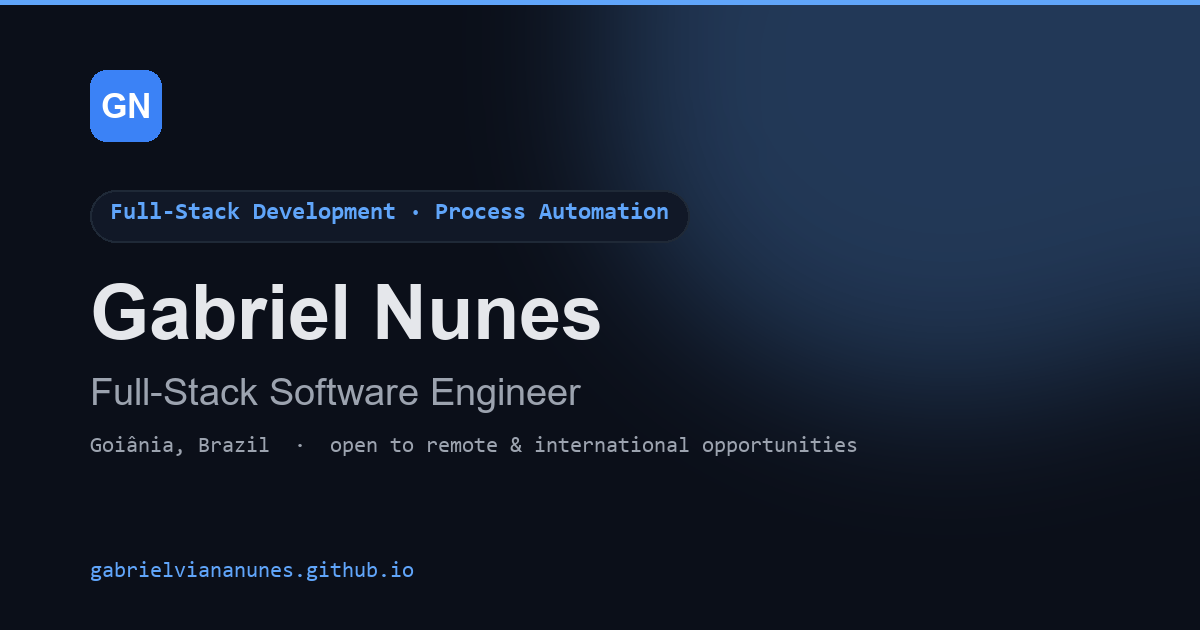
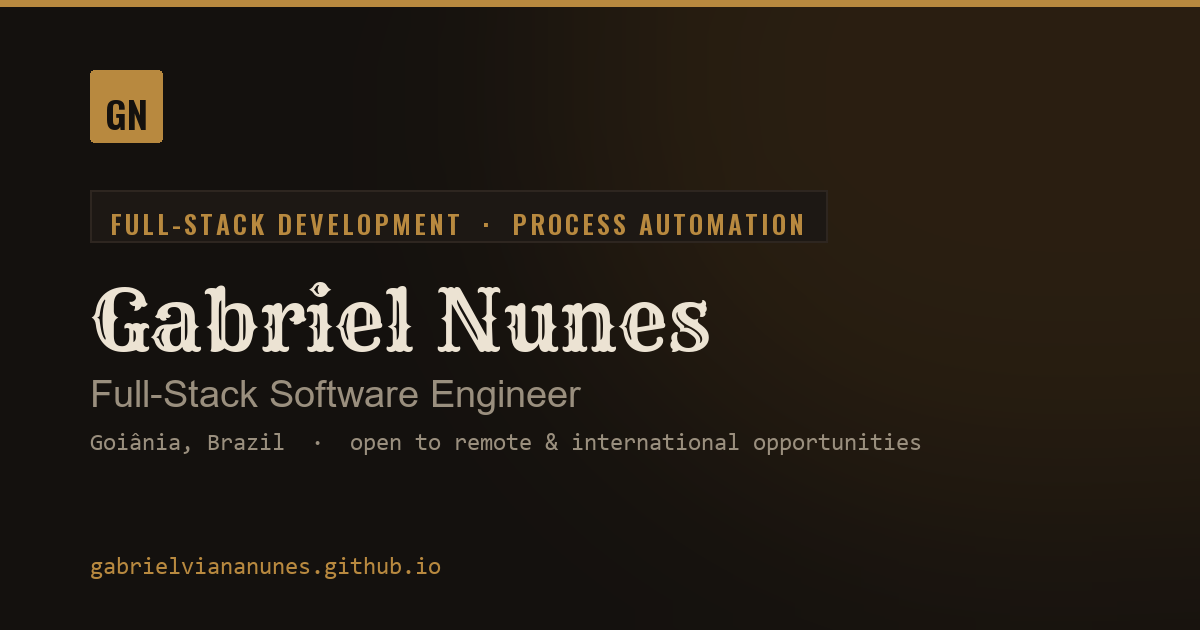
Redesign western moderno: paleta Ranch Noir, tipografia Rye/Oswald e novos assets

diff --git a/assets/css/styles.css b/assets/css/styles.css
@@ -16,26 +16,37 @@ body {
 }
 
 :root {
-    --bg: #ffffff;
-    --text: #111827;
-    --muted: #6b7280;
-    --surface: #f3f4f6;
-    --border: #e5e7eb;
-    --primary: #3b82f6;
-    --ring: #93c5fd;
+    --bg: #f4efe6;
+    --text: #1d1814;
+    --muted: #6e5e4f;
+    --surface: #ebe3d4;
+    --border: #d8ccb8;
+    --primary: #82581a;
+    --ring: #c9a566;
+    --rust: #8c4a2b;
     --accent: var(--primary);
+    --font-display: "Rye", Georgia, "Times New Roman", serif;
+    --font-label: "Oswald", "Arial Narrow", Arial, sans-serif;
     --mono: "JetBrains Mono", ui-monospace, SFMono-Regular, Menlo, Consolas, monospace;
 }
 
 html[data-theme="dark"] {
-    --bg: #0b0f19;
-    --text: #e5e7eb;
-    --muted: #9ca3af;
-    --surface: #111827;
-    --border: #1f2937;
-    --primary: #60a5fa;
-    --ring: #1d4ed8;
+    --bg: #14110e;
+    --text: #ece3d3;
+    --muted: #9a8f7e;
+    --surface: #1d1814;
+    --border: #2e2620;
+    --primary: #b8893f;
+    --ring: #6b4f22;
+    --rust: #8c4a2b;
     --accent: var(--primary);
+}
+
+h1,
+h2 {
+    font-family: var(--font-display);
+    font-weight: 400;
+    letter-spacing: .01em;
 }
 
 a {
@@ -92,7 +103,7 @@ a:hover {
 
 .menu a {
     padding: .5rem .75rem;
-    border-radius: 10px;
+    border-radius: 3px;
 }
 
 .menu a:hover {
@@ -118,7 +129,7 @@ a:hover {
     width: 2.25rem;
     height: 2.25rem;
     border: 1px solid var(--border);
-    border-radius: .625rem;
+    border-radius: 3px;
     background: transparent;
     cursor: pointer;
 }
@@ -159,9 +170,9 @@ a:hover {
     left: 1rem;
     top: 1rem;
     background: var(--primary);
-    color: white;
+    color: var(--bg);
     padding: .5rem 1rem;
-    border-radius: .5rem;
+    border-radius: 3px;
 }
 
 /* ========== Hero ========== */
@@ -186,7 +197,7 @@ a:hover {
     display: inline-block;
     margin: 0 0 .75rem;
     padding: .3rem .7rem;
-    border-radius: 999px;
+    border-radius: 3px;
     border: 1px solid var(--border);
     background: var(--surface);
     font-family: var(--mono);
@@ -202,14 +213,19 @@ a:hover {
 
 .cta {
     display: flex;
+    flex-wrap: wrap;
     gap: 1rem;
     margin-top: 1rem;
 }
 
 .btn {
     display: inline-block;
-    padding: .7rem 1rem;
-    border-radius: .75rem;
+    padding: .7rem 1.25rem;
+    font-family: var(--font-label);
+    font-size: .9rem;
+    text-transform: uppercase;
+    letter-spacing: .1em;
+    border-radius: 4px;
     border: 1px solid var(--border);
     font-weight: 600;
     transition: transform .15s ease;
@@ -217,7 +233,7 @@ a:hover {
 
 .btn.primary {
     background: var(--primary);
-    color: white;
+    color: var(--bg);
     border-color: transparent;
 }
 
@@ -243,6 +259,38 @@ a:hover {
 }
 
 /* ========== Seções ========== */
+main {
+    counter-reset: sec;
+}
+
+.section .container > h2:first-child,
+.section .container > div > h2:first-child {
+    counter-increment: sec;
+}
+
+.section .container > h2:first-child::before,
+.section .container > div > h2:first-child::before {
+    content: counter(sec, decimal-leading-zero) " \00B7";
+    display: block;
+    margin-bottom: .35rem;
+    font-family: var(--font-label);
+    font-size: .8rem;
+    font-weight: 500;
+    letter-spacing: .18em;
+    color: var(--primary);
+}
+
+.menu a,
+.badge,
+.skills-cat,
+.case-label,
+.case-badge,
+.lang-toggle {
+    font-family: var(--font-label);
+    text-transform: uppercase;
+    letter-spacing: .1em;
+}
+
 .section {
     position: relative;
     padding: 3rem 0;
@@ -258,8 +306,9 @@ a:hover {
 .portrait img {
     width: 100%;
     height: auto;
-    border-radius: 1rem;
-    box-shadow: 0 10px 30px rgba(0, 0, 0, .15);
+    border-radius: 4px;
+    box-shadow: 0 10px 30px rgba(20, 12, 4, .28);
+    filter: sepia(.18) saturate(.9) contrast(1.03);
 }
 
 .highlights {
@@ -430,7 +479,7 @@ a:hover {
     margin-bottom: 2rem;
     padding: 1.5rem;
     border: 1px solid var(--border);
-    border-radius: 1rem;
+    border-radius: 4px;
     background: var(--surface);
     transition: transform .15s ease;
 }
@@ -443,7 +492,7 @@ a:hover {
     display: inline-block;
     margin-bottom: .75rem;
     padding: .25rem .6rem;
-    border-radius: 999px;
+    border-radius: 3px;
     background: var(--bg);
     border: 1px solid var(--border);
     color: var(--primary);
@@ -476,7 +525,7 @@ a:hover {
 .card {
     background: var(--surface);
     border: 1px solid var(--border);
-    border-radius: 1rem;
+    border-radius: 4px;
     padding: 1rem;
     transition: transform .15s ease;
 }
@@ -516,15 +565,9 @@ a:hover {
 .tags li {
     font-size: .825rem;
     padding: .25rem .5rem;
-    border-radius: 999px;
-    background: #fff;
+    border-radius: 3px;
+    background: var(--bg);
     border: 1px solid var(--border);
-}
-
-html[data-theme="dark"] .tags li {
-    background: #0b0f19;
-    border-color: #2a3344;
-    /* borda um pouco mais evidente */
 }
 
 /* ========== Contato / Rodapé ========== */
@@ -629,8 +672,8 @@ html[data-theme="dark"] .tags li {
     max-height: 60vw;
     border-radius: 50%;
     background: radial-gradient(circle, var(--primary) 0%, transparent 70%);
-    opacity: .12;
-    filter: blur(60px);
+    opacity: .08;
+    filter: blur(70px);
 }
 
 /* ----- Languages block ----- */
@@ -648,15 +691,14 @@ html[data-theme="dark"] .tags li {
     bottom: .2rem;
     width: .35rem;
     background: var(--ring);
-    border-radius: .35rem;
-    filter: drop-shadow(0 0 6px var(--ring));
+    border-radius: 3px;
 }
 
 .lang-container {
     position: relative;
     background: var(--surface);
     border: 1px solid var(--border);
-    border-radius: 1rem;
+    border-radius: 4px;
     padding: 1rem 1.25rem;
 }
 
@@ -668,8 +710,7 @@ html[data-theme="dark"] .tags li {
     bottom: .75rem;
     width: 4px;
     background: var(--accent);
-    border-radius: 999px;
-    filter: drop-shadow(0 0 8px var(--accent));
+    border-radius: 3px;
 }
 
 .lang-grid {
@@ -689,7 +730,7 @@ html[data-theme="dark"] .tags li {
     font-size: 1.4rem;
     /* tamanho da bandeira */
     line-height: 1;
-    border-radius: .25rem;
+    border-radius: 2px;
     box-shadow: 0 0 0 1px var(--border) inset;
 }
 
@@ -719,7 +760,7 @@ html[data-theme="dark"] .tags li {
     gap: .4rem;
     height: 2.25rem;
     padding: 0 .6rem;
-    border-radius: .625rem;
+    border-radius: 3px;
     border: 1px solid var(--border);
     background: transparent;
     color: var(--text);
@@ -746,8 +787,8 @@ html[data-theme="dark"] .tags li {
     list-style: none;
     background: var(--bg);
     border: 1px solid var(--border);
-    border-radius: .75rem;
-    box-shadow: 0 10px 30px rgba(0, 0, 0, .15);
+    border-radius: 4px;
+    box-shadow: 0 10px 30px rgba(20, 12, 4, .28);
     z-index: 20;
 }
 
@@ -756,7 +797,7 @@ html[data-theme="dark"] .tags li {
     align-items: center;
     gap: .5rem;
     padding: .5rem .6rem;
-    border-radius: .5rem;
+    border-radius: 3px;
     font-size: .9rem;
     cursor: pointer;
 }
@@ -781,7 +822,7 @@ html[data-theme="dark"] .tags li {
     justify-content: center;
     width: 2.25rem;
     height: 2.25rem;
-    border-radius: .625rem;
+    border-radius: 3px;
     border: 1px solid var(--border);
     background: transparent;
     color: var(--text);
@@ -840,7 +881,7 @@ html[data-theme="dark"] .theme-toggle .icon-moon {
     margin-top: 1.5rem;
     padding: 1rem 1.25rem;
     max-width: 46ch;
-    border-radius: .75rem;
+    border-radius: 4px;
     border: 1px solid var(--border);
     background: var(--surface);
     font-family: var(--mono);

diff --git a/index.html b/index.html
@@ -10,14 +10,14 @@
         content="Software Engineering undergrad. Java, Spring Boot & Angular projects, skills, and contact." />
 
     <!-- Theme colors for light/dark -->
-    <meta name="theme-color" content="#ffffff" data-dynamic>
+    <meta name="theme-color" content="#14110e" data-dynamic>
 
     <script>
       (function () {
         var stored = localStorage.getItem('site-theme');
         var theme = (stored === 'light' || stored === 'dark')
           ? stored
-          : (window.matchMedia('(prefers-color-scheme: dark)').matches ? 'dark' : 'light');
+          : 'dark';
         document.documentElement.setAttribute('data-theme', theme);
       })();
     </script>
@@ -25,6 +25,7 @@
     <!-- Tipografia -->
     <link rel="preconnect" href="https://fonts.gstatic.com" crossorigin>
     <link href="https://fonts.googleapis.com/css2?family=Inter:wght@400;600;800&display=swap" rel="stylesheet">
+    <link href="https://fonts.googleapis.com/css2?family=Rye&family=Oswald:wght@500;600&display=swap" rel="stylesheet">
     <link href="https://fonts.googleapis.com/css2?family=JetBrains+Mono:wght@400;600&display=swap" rel="stylesheet">
 
     <!-- Estilos -->

diff --git a/assets/js/theme.js b/assets/js/theme.js
@@ -5,13 +5,13 @@
     function getPreferredTheme() {
         var stored = localStorage.getItem(STORAGE_KEY);
         if (stored === 'light' || stored === 'dark') return stored;
-        return window.matchMedia('(prefers-color-scheme: dark)').matches ? 'dark' : 'light';
+        return 'dark';
     }
 
     function applyTheme(theme) {
         root.setAttribute('data-theme', theme);
         var meta = document.querySelector('meta[name="theme-color"][data-dynamic]');
-        if (meta) meta.setAttribute('content', theme === 'dark' ? '#0b0f19' : '#ffffff');
+        if (meta) meta.setAttribute('content', theme === 'dark' ? '#14110e' : '#f4efe6');
         var btn = document.querySelector('.theme-toggle');
         if (btn) {
             var label = window.i18n

diff --git a/docs/superpowers/specs/2026-10-17-western-redesign-design.md b/docs/superpowers/specs/2026-10-17-western-redesign-design.md
@@ -26,8 +26,7 @@ professional, refined and "means business".
 - Contrast pairs verified to WCAG AA in both themes.
 
 ### Typography
-- Display (h1, h2, hero name): a Clarendon-style slab for the ranch-sign feel
-  (candidates: Bevan, Alfa Slab One; chosen after a specimen check in the browser).
+- Display (h1, h2, hero name): Rye, a decorative western slab chosen by the owner.
 - Labels, nav, buttons, section tags: condensed uppercase, wide tracking (Oswald).
 - Body: Inter. Mono (terminal, tags): JetBrains Mono. Fonts via Google Fonts.
 - Section tags numbered ("01 · About") through CSS counters, no HTML/i18n changes.

diff --git a/docs/superpowers/plans/2026-10-17-western-redesign.md b/docs/superpowers/plans/2026-10-17-western-redesign.md
@@ -39,7 +39,7 @@
     --bg: #f4efe6; --text: #1d1814; --muted: #6e5e4f; --surface: #ebe3d4;
     --border: #d8ccb8; --primary: #8a5f1e; --ring: #c9a566; --rust: #8c4a2b;
     --accent: var(--primary);
-    --font-display: "Bevan", Georgia, serif;
+    --font-display: "Rye", Georgia, serif;
     --font-label: "Oswald", "Arial Narrow", sans-serif;
     --mono: "JetBrains Mono", ui-monospace, SFMono-Regular, Menlo, Consolas, monospace;
 }
